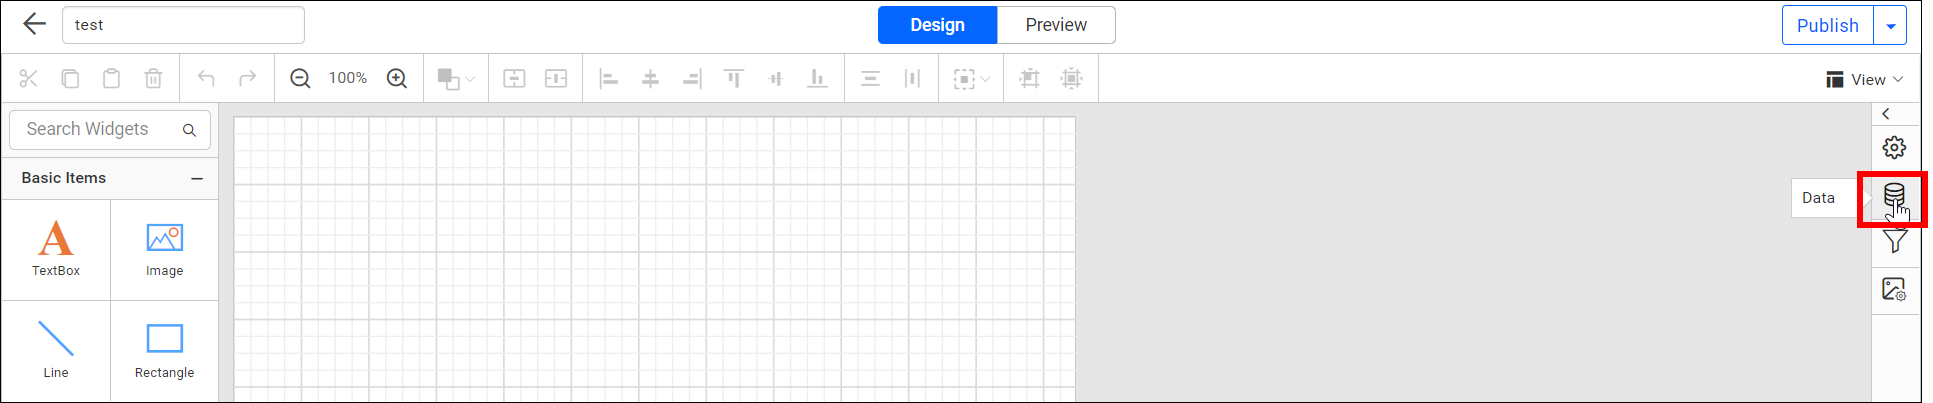
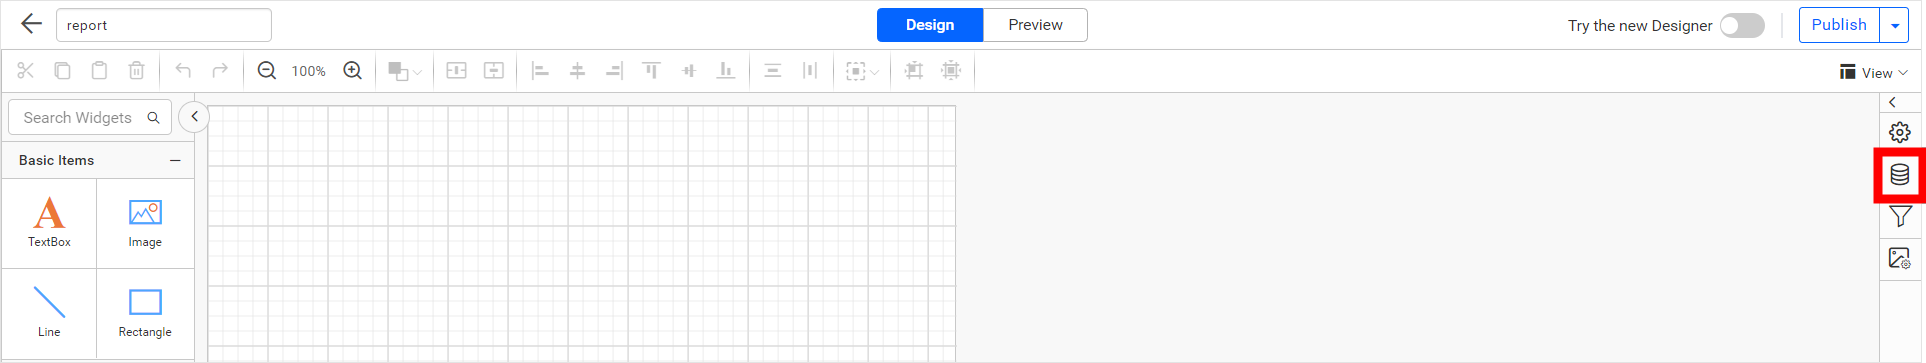
feature(REPORT-323147): Added the content for new designer toggle button in documentation.

diff --git a/docs/designer-guide/manage-content/reports/create-report.md b/docs/designer-guide/manage-content/reports/create-report.md
@@ -25,6 +25,8 @@ This section explains on how to create report and design a report in the Bold Re
     >![Draft report](/static/assets/on-premise/images/manage-content/manage-reports/create-reports/draft-report.png)
 3. Now, the report designer page opens in a new tab, with a blank report by default.
 ![Report designer initial view](/static/assets/on-premise/images/manage-content/manage-reports/create-reports/report-designer-initial-view.png)
+4. To switch the old designer to new designer, click on the `Try the new designer` toggle button.
+![New Report designer initial view](/static/assets/on-premise/images/manage-content/manage-reports/create-reports/report-new-designer-initial-view.png)
 > `Read Write Delete` permission for that `Specific Report` will be added for the user who created the report.
 
 ## Create Data
